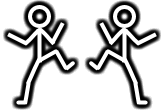
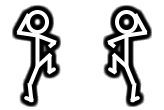
Climbing improvement Debug improvement

diff --git a/core/src/main/java/com/epicness/neoncube/game/GameRenderer.java b/core/src/main/java/com/epicness/neoncube/game/GameRenderer.java
@@ -18,6 +18,7 @@ import com.badlogic.gdx.graphics.g3d.ModelBatch;
 import com.badlogic.gdx.graphics.g3d.decals.CameraGroupStrategy;
 import com.badlogic.gdx.graphics.g3d.decals.DecalBatch;
 import com.badlogic.gdx.graphics.glutils.FrameBuffer;
+import com.badlogic.gdx.utils.DelayedRemovalArray;
 import com.badlogic.gdx.utils.ScreenUtils;
 import com.epicness.fundamentals.renderer.Renderer;
 import com.epicness.neoncube.game.stuff.DecalScreen;
@@ -78,8 +79,8 @@ public class GameRenderer extends Renderer<GameStuff> {
 
     @SuppressWarnings("GDXJavaFlushInsideLoop")
     private void renderDecalCube() {
-        DecalScreen[] screens = stuff.getDecalCube().getFaces();
-        for (int i = 0; i < screens.length; i++) {
+        DelayedRemovalArray<DecalScreen> faces = stuff.getDecalCube().faces;
+        for (int i = 0; i < faces.size; i++) {
             FrameBuffer frameBuffer = frameBuffers[i];
             Sprite bufferSprite = bufferSprites[i];
             // Render to frame buffer
@@ -91,7 +92,7 @@ public class GameRenderer extends Renderer<GameStuff> {
             // Set the frame buffer's texture as the decal's texture
             bufferSprite.setRegion(frameBuffer.getColorBufferTexture());
             bufferSprite.flip(false, true);
-            screens[i].setSprite(bufferSprite);
+            faces.get(i).setSprite(bufferSprite);
         }
         // Back to normal projection matrix
         useStaticCamera();
@@ -112,6 +113,7 @@ public class GameRenderer extends Renderer<GameStuff> {
     private void renderDebug() {
         // Debug
         shapeRenderer.begin();
+        shapeRenderer.setProjectionMatrix(decalCamera.combined);
         stuff.getStickmanWorld().drawDebug(shapeRenderer);
         shapeRenderer.end();
     }

diff --git a/core/src/main/java/com/epicness/neoncube/game/stuff/DecalCube.java b/core/src/main/java/com/epicness/neoncube/game/stuff/DecalCube.java
@@ -3,30 +3,28 @@ package com.epicness.neoncube.game.stuff;
 import static com.epicness.neoncube.game.constants.GameConstants.DECAL_SCREEN_WIDTH;
 
 import com.badlogic.gdx.graphics.g3d.decals.DecalBatch;
+import com.badlogic.gdx.utils.DelayedRemovalArray;
 
 public class DecalCube {
 
-    private final DecalScreen[] faces;
+    public final DelayedRemovalArray<DecalScreen> faces;
 
     public DecalCube() {
-        faces = new DecalScreen[4];
-        for (int i = 0; i < faces.length; i++) {
-            faces[i] = new DecalScreen();
-            faces[i].rotateY(i * 90f);
+        faces = new DelayedRemovalArray<>();
+        for (int i = 0; i < 4; i++) {
+            DecalScreen decalScreen = new DecalScreen();
+            decalScreen.rotateY(i * 90f);
+            faces.add(decalScreen);
         }
-        faces[0].translateZ(DECAL_SCREEN_WIDTH / 2f);
-        faces[1].translateX(DECAL_SCREEN_WIDTH / 2f);
-        faces[2].translateZ(-DECAL_SCREEN_WIDTH / 2f);
-        faces[3].translateX(-DECAL_SCREEN_WIDTH / 2f);
+        faces.get(0).translateZ(DECAL_SCREEN_WIDTH / 2f);
+        faces.get(1).translateX(DECAL_SCREEN_WIDTH / 2f);
+        faces.get(2).translateZ(-DECAL_SCREEN_WIDTH / 2f);
+        faces.get(3).translateX(-DECAL_SCREEN_WIDTH / 2f);
     }
 
     public void draw(DecalBatch decalBatch) {
-        for (int i = 0; i < faces.length; i++) {
-            faces[i].draw(decalBatch);
+        for (int i = 0; i < faces.size; i++) {
+            faces.get(i).draw(decalBatch);
         }
-    }
-
-    public DecalScreen[] getFaces() {
-        return faces;
     }
 }

diff --git a/core/src/main/java/com/epicness/neoncube/game/stuff/Player.java b/core/src/main/java/com/epicness/neoncube/game/stuff/Player.java
@@ -31,7 +31,7 @@ public class Player implements Movable {
         running.enableLooping();
         running.useBilinearFilter();
 
-        climbing = new SpritedAnimation(0.2f, climbingFrames);
+        climbing = new SpritedAnimation(0.1f, climbingFrames);
         climbing.setSize(PLAYER_WIDTH, PLAYER_HEIGHT);
         climbing.enableLooping();
         climbing.useBilinearFilter();
